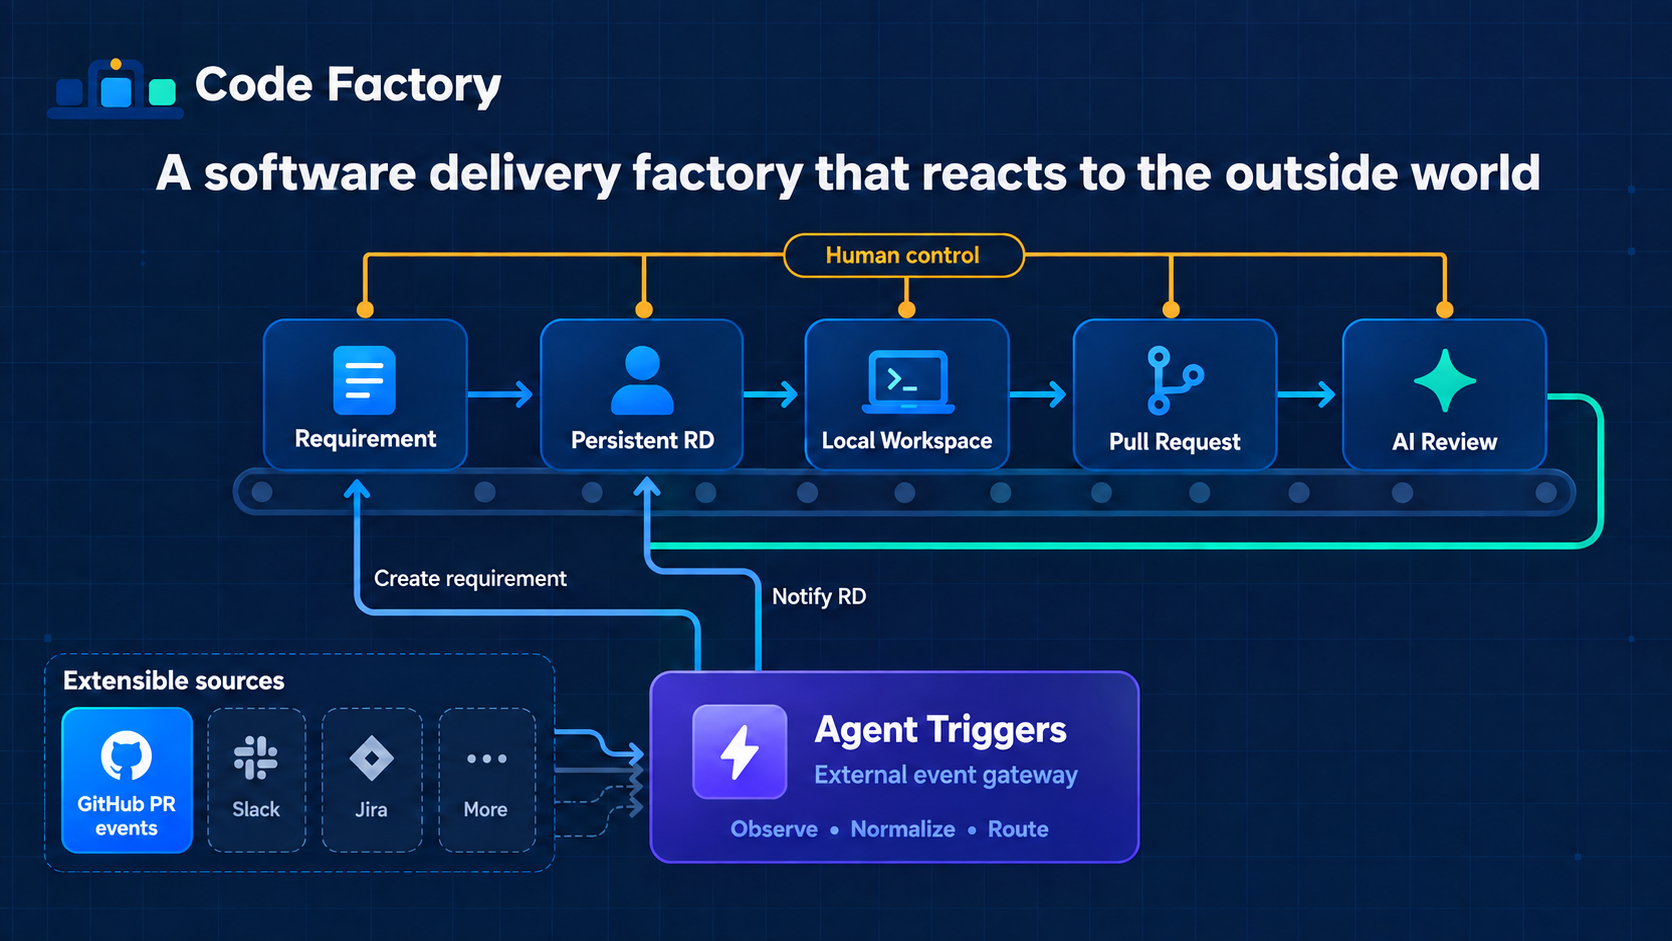
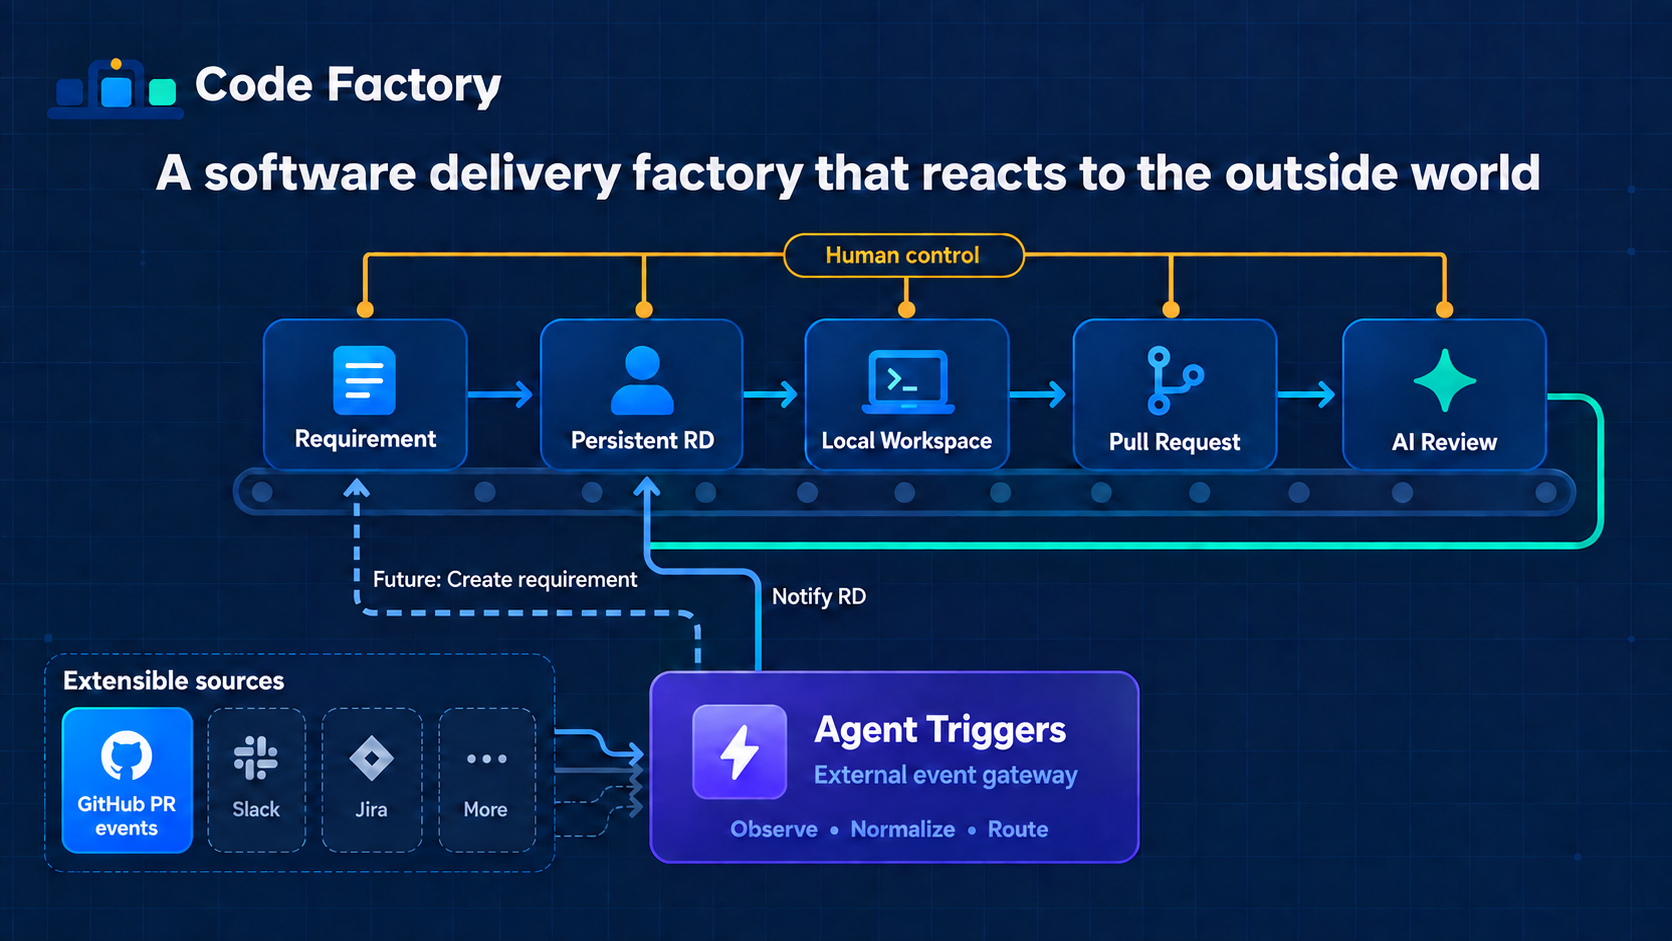
docs: clarify Agent Trigger architecture

diff --git a/README.md b/README.md
@@ -7,10 +7,10 @@
 <p align="center"><strong>From requirement to reviewed pull request, keep every coding-agent loop visible and under human control.</strong></p>
 
 <p align="center">
-  <img src="docs/assets/brand/code-factory-overview.png" alt="Code Factory connects requirements, persistent RD agents, a local workspace, pull requests, AI review, human control, and extensible Agent Triggers that route external events into the delivery loop." />
+  <img src="docs/assets/brand/code-factory-overview.png" alt="Code Factory connects requirements, persistent RD agents, a local workspace, pull requests, AI review, and human control. Agent Triggers currently route GitHub PR events into existing Requirements and are designed to support more sources and new Requirement creation in the future." />
 </p>
 
-Code Factory is a **local control plane for agent-driven software delivery**. It turns each requirement into a persistent development loop that connects a human, an RD coding agent, GitHub pull requests, and on-demand AI reviewers in one Web dashboard.
+Code Factory is a **local control plane for agent-driven software delivery**. It turns each requirement into a persistent development loop that connects a human, an RD coding agent, the local workspace, GitHub pull requests, on-demand AI reviewers, and external events routed through Agent Triggers in one Web dashboard.
 
 It is designed for developers and engineering teams that already use **Codex** or **Claude Code**, but need more than isolated terminal sessions: durable context, visible progress, human intervention, PR feedback, and an auditable conversation around the work.
 
@@ -21,7 +21,7 @@ Code Factory sits between an issue tracker, an agent session manager, and a pull
 - **Requirement-driven:** work starts from a concrete requirement instead of an ad-hoc prompt.
 - **Persistent:** every requirement owns a long-lived RD session that can be resumed across multiple runs.
 - **Human-controlled:** people can add context, queue corrections, interrupt a run, and decide when work is done.
-- **Trigger-aware:** external signals flow into the same development loop; independent built-in GitHub PR Triggers handle status, reviews/comments, CI failures, and merge conflicts.
+- **Trigger-connected:** Agent Triggers connect external event sources to the delivery loop. Built-in GitHub PR triggers currently handle status, reviews/comments, CI failures, and merge conflicts, while the source-neutral boundary is designed to support systems such as Slack and Jira.
 - **Local-first:** agents run in your existing repository with your installed CLI tools, project instructions, and credentials.
 
 Code Factory is not a hosted IDE or a generic agent pool. It coordinates the delivery workflow around coding agents while leaving code execution, Git, and GitHub access in the developer's own environment.
@@ -170,14 +170,20 @@ flowchart LR
   RD -->|Create or update PR| GH[GitHub]
   RD -->|code-factory-cli| M
   RV -->|Review comments| GH
-  GH -->|PR state, comments,<br/>reviews, CI, and conflicts| T[PR Agent Triggers]
-  T -->|Deduplicated messages| M
+  RV -->|Reviewer summary| M
+  GH -->|Current PR events| T[Agent Triggers]
+  EXT[Slack / Jira / more] -.->|Future sources| T
+  T -->|Current: deliver to<br/>existing Requirement| M
+  T -.->|Future: create<br/>Requirement| M
 ~~~
 
 1. A human creates a Requirement and chooses Codex or Claude Code, optionally pinning a model and reasoning effort. Code Factory creates a dedicated, persistent RD session for it.
 2. Agent Manager starts or resumes that agent in the managed workspace. Messages sent during a run are queued; the human may explicitly interrupt when an immediate correction is needed.
-3. The RD agent edits and tests the repository, then uses the bundled `code-factory-cli` to register any pull request it creates or propose separate follow-up work. The built-in PR Agent Triggers continuously bring GitHub state, feedback, CI failures, and merge conflicts into the Requirement conversation.
-4. A human can request a short-lived AI review for an open PR with its own provider, model, and reasoning effort. Review results return to the same conversation and wake the original RD session to continue the loop.
+3. The RD agent edits and tests the repository, then uses the bundled `code-factory-cli` to register any pull request it creates or propose separate follow-up work.
+4. Agent Triggers listen or poll for external events, normalize and deduplicate them, and route them into the Requirement conversation. The current built-in triggers observe GitHub PR state, comments and reviews, CI failures, and merge conflicts. An idle RD session resumes immediately; a running session consumes the new messages after its current run.
+5. A human can request a short-lived AI review for an open PR with its own provider, model, and reasoning effort. Review results return to the same conversation and wake the original RD session to continue the loop.
+
+The Agent Trigger boundary is intentionally source-neutral, but its current message contract targets an existing Requirement. Dynamic trigger discovery and configuration, Slack and Jira sources, and triggers that create new Requirements are future extensions rather than implemented behavior.
 
 Different Requirements can run concurrently, while each Requirement has at most one active RD run. Requirement state, conversations, runs, sessions, PR metadata, and Agent Trigger receipts are persisted in SQLite.
 
@@ -260,4 +266,4 @@ npm run build
 
 The current implementation includes the Agent Manager core, a supervised daemon mode with automatic process restart, SQLite Store, HTTP/SSE API, Codex and Claude Code adapters, conversation-driven RD continuation, PR tracking, manually triggered Reviewer runs, and the bundled Web dashboard.
 
-The `AgentTrigger` extension API is currently code-level; dynamic trigger discovery/configuration and a Slack implementation remain future work. Webhook-based synchronization, stale-review indicators after a head-SHA change, local access tokens, detailed tool-execution logs, and Manager-enforced worktree isolation also remain future work. RD Agents are instructed to create or reuse a Requirement-specific Git worktree before changing code, but Agent Manager does not provision or enforce that isolation; every child process still starts in the shared Manager workspace.
+The `AgentTrigger` lifecycle and extension API are currently code-level, and every delivered trigger message must target an existing Requirement. Dynamic trigger discovery/configuration, Slack and Jira sources, and trigger-created Requirements remain future work. GitHub synchronization currently uses local `gh` polling rather than webhooks. Stale-review indicators after a head-SHA change, local access tokens, detailed tool-execution logs, and Manager-enforced worktree isolation also remain future work. RD Agents are instructed to create or reuse a Requirement-specific Git worktree before changing code, but Agent Manager does not provision or enforce that isolation; every child process still starts in the shared Manager workspace.
